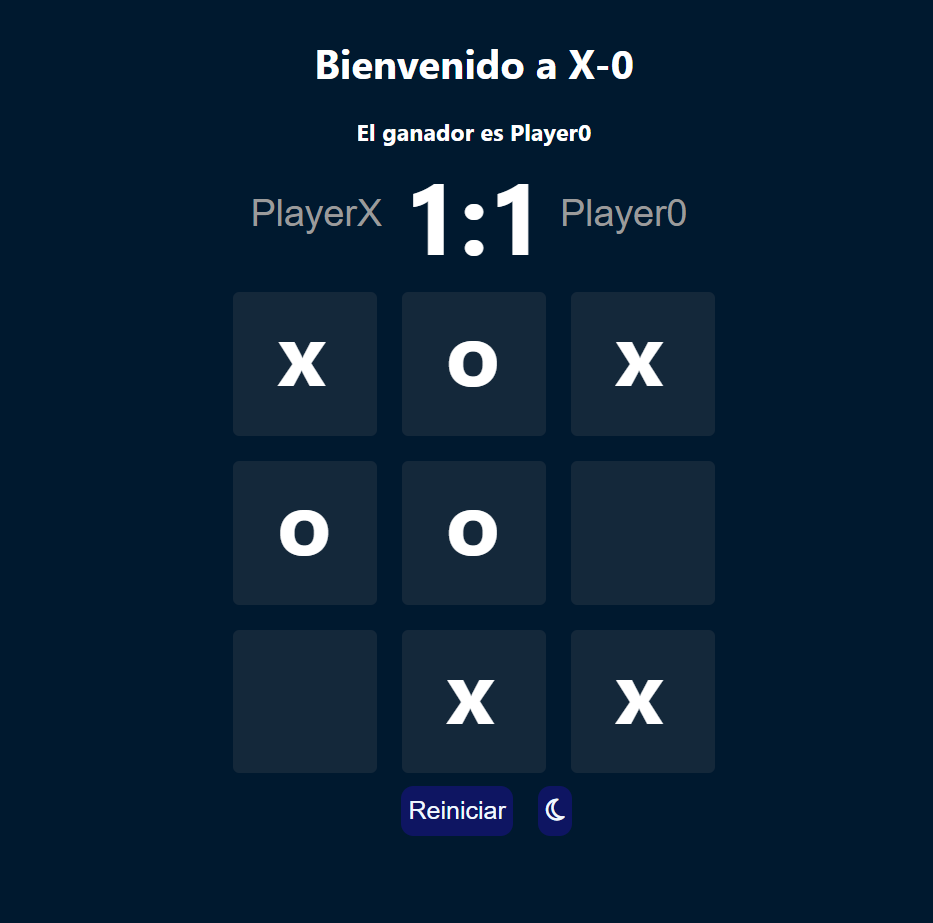
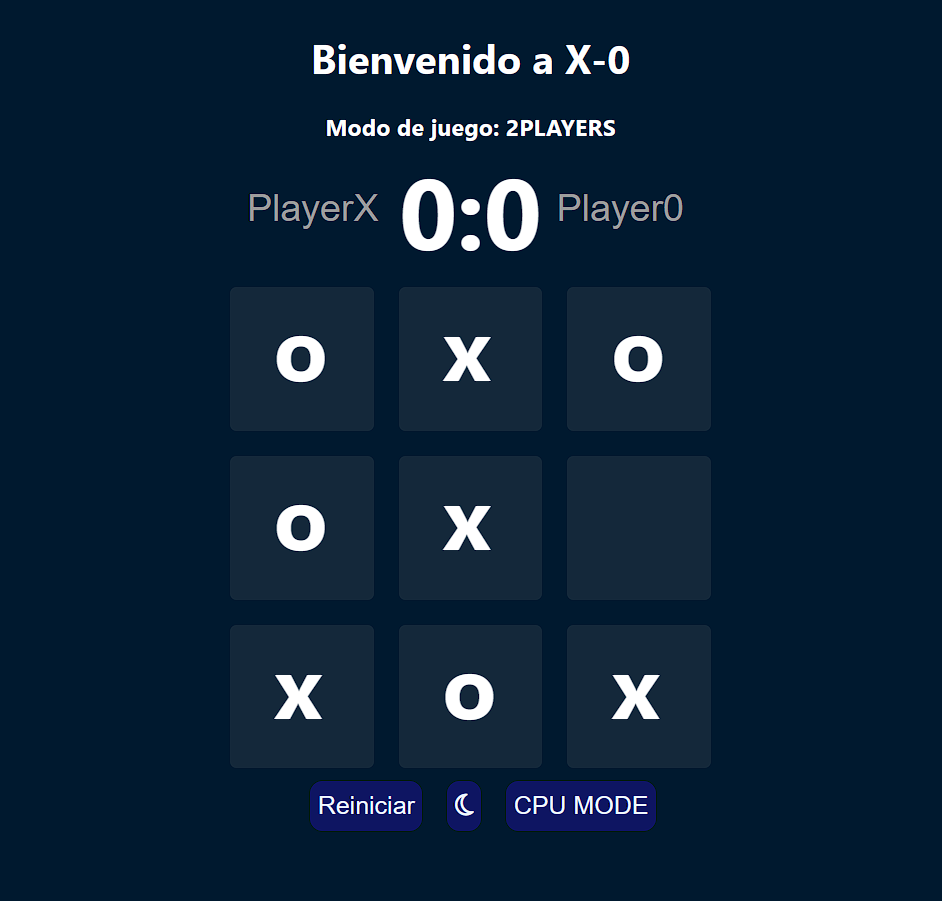
mejoras animaciones

diff --git a/controlador.js b/controlador.js
@@ -30,40 +30,28 @@ paneles.forEach(panel => {
     panel.addEventListener("mouseleave", () => {
         panel.classList.remove("hover");
     });
-
     // Al hacer click en un panel
         panel.addEventListener("click", () => {
-                
             // si el panel esta disponible (vacio)
-                if (panel.innerHTML === "") {     
-                    
-                    // Animaciones
-                        panel.classList.add("click");
-                        setTimeout(() => {
-                            panel.classList.remove("click");
-                            panel.classList.add("afterClick");
-                        }, 600);
-
-                    // Animacion y movimiento del CPU
-                        setTimeout(() => {
-                                panel.classList.remove("afterClick");
-                                verificarGanador(); 
-                                if(cpuPuedeJugar){
-                                    cpuMovimiento();
-                                };
-                        }, 1200);
-                        
+                if (panel.innerHTML === "") {                         
+                    animacionPanel(panel);
                     // llenar el panel
-                        setTimeout(() => {
-                                if(cpuPuedeJugar){
-                                    panel.innerHTML = "x";
-                                }else{
-                                    equis ? (panel.innerHTML = "x") : (panel.innerHTML = "o");
-                                }
-                        }, 600);
-
+                    setTimeout(() => {
+                            if(cpuPuedeJugar){
+                                panel.innerHTML = "x";
+                            }else{
+                                equis ? (panel.innerHTML = "x") : (panel.innerHTML = "o");
+                            }
+                    }, 600);
+                    // movimiento del CPU
+                    setTimeout(() => {
+                            verificarGanador(); 
+                            if(cpuPuedeJugar){
+                                cpuMovimiento();
+                            };
+                    }, 1200);
                     // Cambiar de equis a cero
-                        equis = !equis;
+                    equis = !equis;
                 };
         });
 });
@@ -90,7 +78,7 @@ const verificarGanador = () => {
         const b = paneles[condicion[1] - 1];
         const c = paneles[condicion[2] - 1];
         if (a.innerHTML !== "" && a.innerHTML === b.innerHTML && b.innerHTML === c.innerHTML) {
-            
+
             a.style.backgroundColor="green"
             b.style.backgroundColor="green"
             c.style.backgroundColor="green"
@@ -119,13 +107,17 @@ const cpuMovimiento = () => {
     if (paneles.every(panel => panel.innerHTML !== "")) {
         // Todas las casillas están llenas, terminar la función sin hacer ningún movimiento
         reiniciar();
+        return;
     }
 
     for (let i = 0; i < patronCPU.length; i++) {
         const [pos1, pos2, pos3] = patronCPU[i];
         if (paneles[pos1].innerHTML === "x" && paneles[pos2].innerHTML === "x" && paneles[pos3].innerHTML === "") {
-            paneles[pos3].innerHTML = "o";
-            verificarGanador();
+            animacionPanel(paneles[pos3]);
+            setTimeout(() => {
+                paneles[pos3].innerHTML = "o";
+                verificarGanador();
+            }, 600);
             return;
         }
     }
@@ -135,16 +127,37 @@ const cpuMovimiento = () => {
         numero = Math.floor(Math.random() * 9);
     } while (paneles[numero].innerHTML !== "");
 
-    paneles[numero].innerHTML = "o";
-    verificarGanador();
+    animacionPanel(paneles[numero]);
+    setTimeout(() => {
+        paneles[numero].innerHTML = "o";
+        verificarGanador();
+    }, 600);
+    return;
 };
 
-const reiniciar=()=>{
+const reiniciar = ()=>{
     paneles.forEach(panel => {
-        panel.innerHTML=""
-        panel.classList.remove("click")
-        panel.classList.remove("afterClick")
+        for (let i = 0; i < paneles.length; i++) {
+            setTimeout(() => {            
+                animacionPanel(paneles[i]);
+                setTimeout(() => {
+                    panel.innerHTML=""
+                }, 600);
+            }, 50*i);
+        };
     });
+};
+
+const animacionPanel=(panel)=>{
+    panel.classList.add("click");
+    setTimeout(() => {
+        panel.classList.remove("click");
+        panel.classList.add("afterClick");
+    }, 600);
+
+    setTimeout(() => {
+            panel.classList.remove("afterClick");
+    }, 1200);
 };
 
 const darkMode = () => {
@@ -159,6 +172,3 @@ const darkMode = () => {
     body.style.transition = "3s";
     dark = !dark;
 }
-
-
-

diff --git a/estilos.css b/estilos.css
@@ -73,7 +73,19 @@ input{
     cursor: pointer;
 } 
 
+.reiniciar{
+    transition: 0.3s;
+    transform: scale(0,1);
+    cursor: pointer;
+} 
+
 .afterClick{
+    transition: 0.3s;
+    transform: scale(1);
+    cursor: pointer;
+}
+
+.afterReiniciar{
     transition: 0.3s;
     transform: scale(1);
     cursor: pointer;
@@ -96,7 +108,3 @@ button:hover{
     cursor: pointer;
 }
 
-.comenzar{
-    transition: 1.5s;
-    background-color: green;
-}

diff --git a/README.md b/README.md
@@ -9,7 +9,6 @@ Ahora disfruta jugar contra el CPU.
 ## Funcionalidades
 - **Modo Oscuro:** Disfruta del juego tanto de día como de noche.
 - **Juega contra un amigo:** Desafía a tus amigos y familiares en emocionantes partidas de Tic-Tac-Toe.
-- **Próximas Características:** Estamos trabajando en agregar la opción de jugar contra la computadora. ¡Mantente atento para futuras actualizaciones!
 
 ### Modo Claro
 <img src="Imagenes/lightMode.png" alt="Modo Claro" width="300"/>
